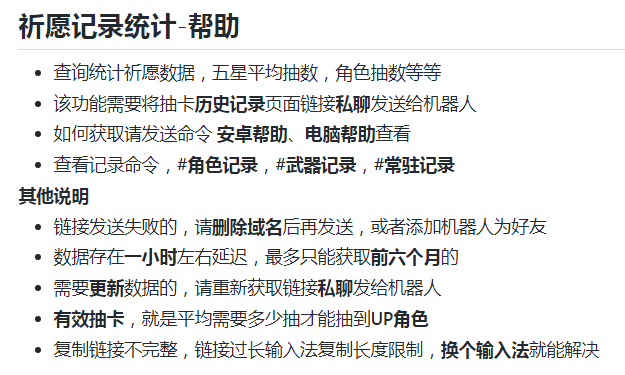
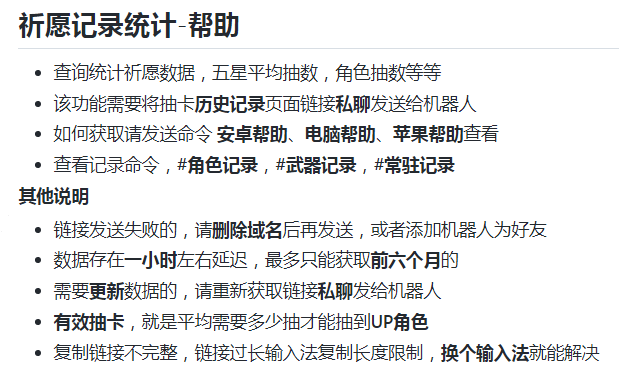
苹果帮助

diff --git a/resources/logHelp/记录帮助.md b/resources/logHelp/记录帮助.md
@@ -1,7 +1,7 @@
 ## 祈愿记录统计-帮助
 - 查询统计祈愿数据，五星平均抽数，角色抽数等等
 - 该功能需要将抽卡**历史记录**页面链接**私聊**发送给机器人
-- 如何获取请发送命令 **安卓帮助**、**电脑帮助**查看
+- 如何获取请发送命令 **安卓帮助**、**电脑帮助**、**苹果帮助**查看
 - 查看记录命令，**#角色记录**，**#武器记录**，**#常驻记录**
 
 #### 其他说明
@@ -26,3 +26,15 @@
 - 提示日志被**其他程序占用**，无法发送的，可以将日志复制粘贴一份副本，将副本发送
 - 或者打开日志文件，找到链接**私聊**发送给机器人
 - 日志文件是`output_log.txt`，不是**last**那个
+
+#### 记录帮助-苹果
+- 苹果手机需要用捉包获取**历史记录页面链接**
+- 应用商店搜索抓包工具**Stream**，下载安装
+- 打开**Stream**，允许**添加VPN配置**，安装**CA证书**
+- 点左上角**开始捉包**按钮
+- 打开游戏-祈愿-**历史记录页面**，或者点右上角刷新这个页面
+- 回到**Stream**,点左上角**停止抓包**按钮停止
+- 点右边**抓包历史**按钮，选择最上面一条
+- 选择**按域名**，选择域名为 **hk4e-api.mihoyo.com** 那一条
+- 点最上面一条，选择**请求**，点击**请求信息**
+- **复制请求连接**，最后**私聊**发送给机器人

diff --git a/resources/readme/更新日志.md b/resources/readme/更新日志.md
@@ -1,3 +1,7 @@
+### 2022-2-10
+- 更新抽卡记录帮助说明，增加苹果帮助，通过捉包获取历史记录连接
+- 更新八重立绘
+
 ### 2022-2-8
 - 修复#抽卡记录字体不对
 
